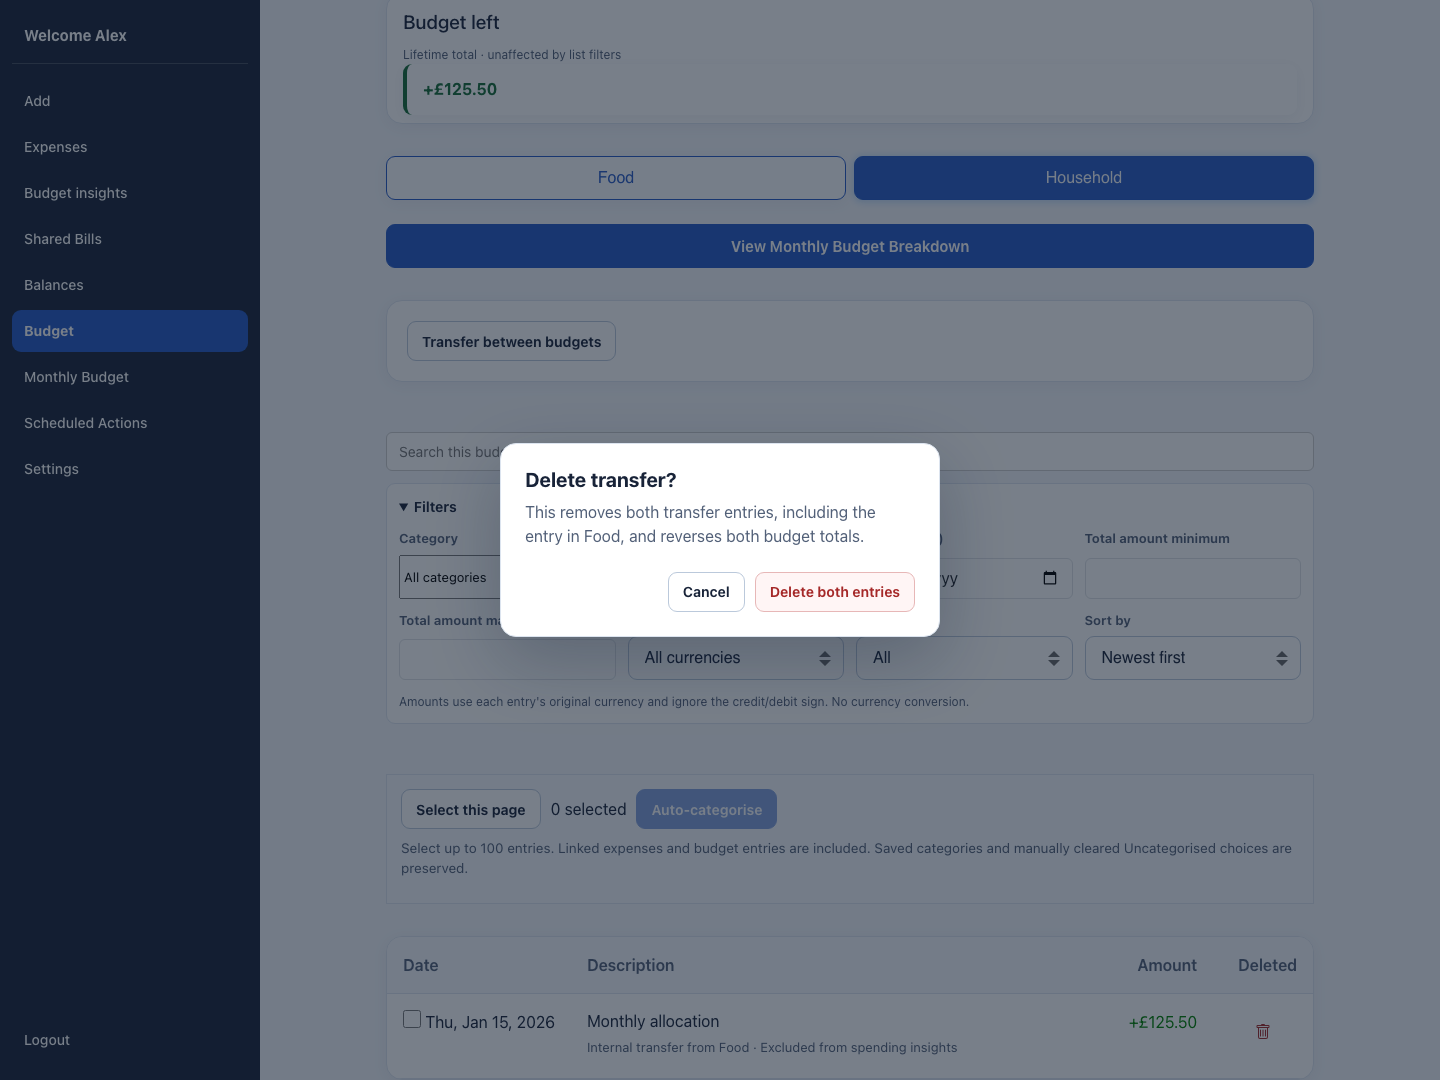
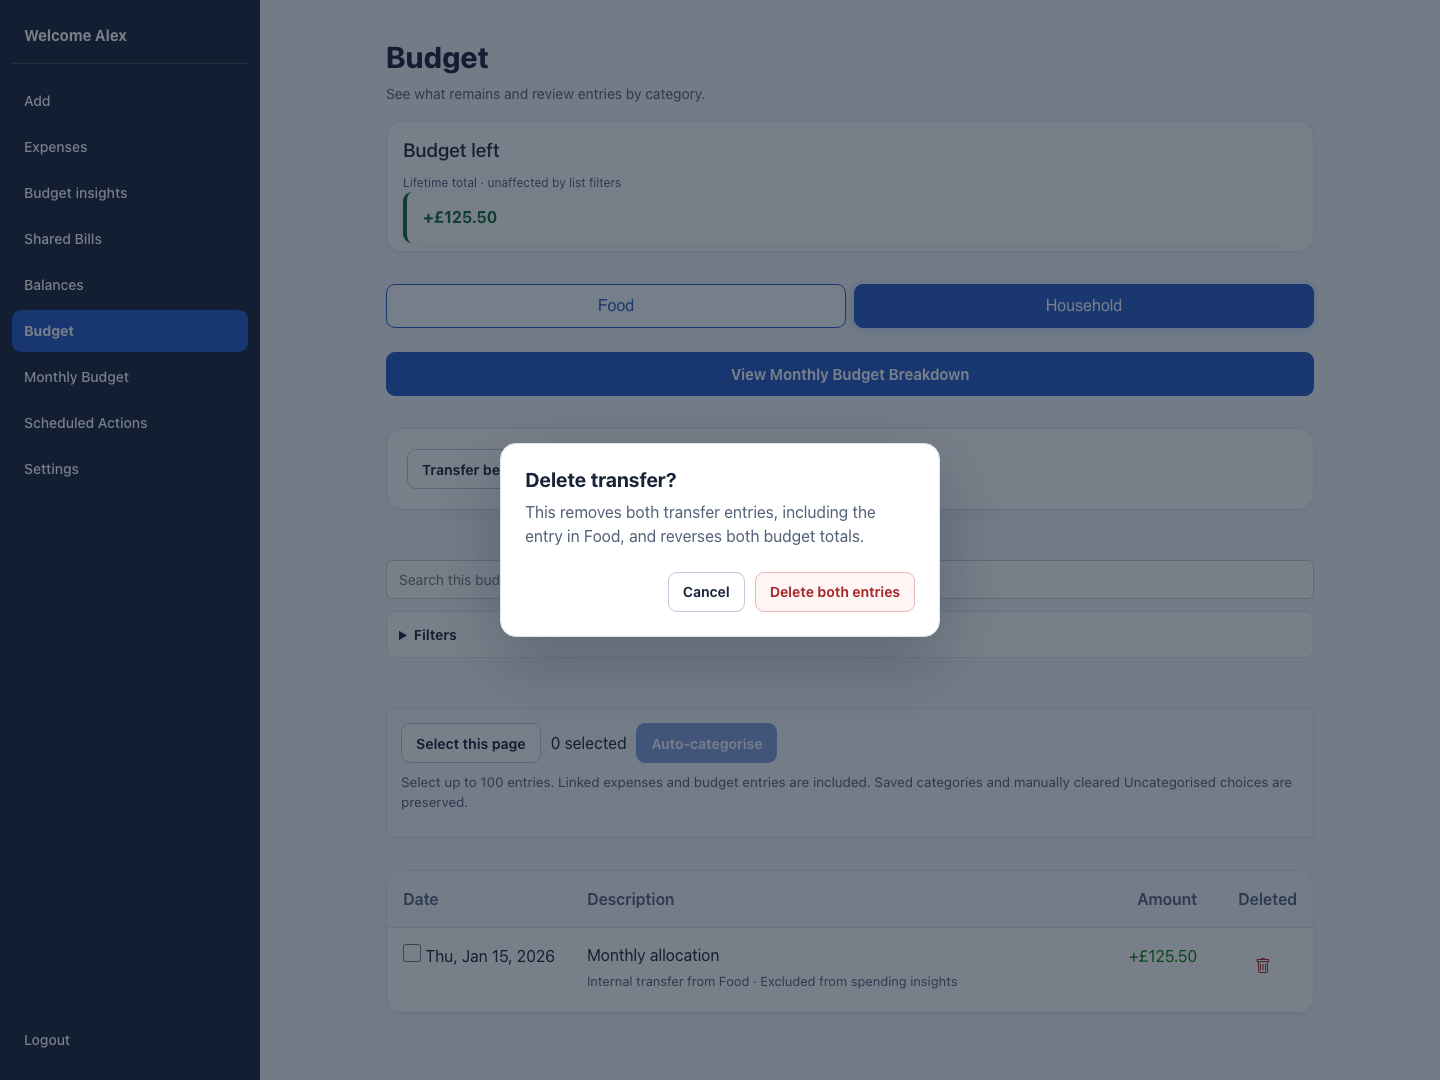
Start Budget filters and transfer controls collapsed

diff --git a/src/components/FinanceListFilters/FinanceListFilters.test.tsx b/src/components/FinanceListFilters/FinanceListFilters.test.tsx
@@ -1,0 +1,76 @@
+import { fireEvent, render, screen } from "@testing-library/react";
+import { FinanceListFilters } from "./index";
+import type { useFinanceListFilters } from "@/hooks/useFinanceListFilters";
+jest.mock("@/hooks/useCategories", () => ({
+	useCategories: () => ({ data: { enabled: false } }),
+}));
+const state = {
+	filters: {},
+	params: new URLSearchParams(),
+	activeCount: 0,
+	error: "",
+	update: jest.fn(),
+	clear: jest.fn(),
+} as unknown as ReturnType<typeof useFinanceListFilters>;
+for (const desktop of [true, false]) {
+	it(`starts Budget filters collapsed on ${desktop ? "desktop" : "mobile"} and supports toggling`, () => {
+		Object.defineProperty(window, "matchMedia", {
+			configurable: true,
+			value: jest.fn(() => ({ matches: desktop })),
+		});
+		render(
+			<FinanceListFilters state={state} currencies={["GBP"]} kind="budget" />,
+		);
+		expect(screen.getByLabelText("Date from (UTC)")).not.toBeVisible();
+		fireEvent.click(screen.getByText("Filters", { exact: true }));
+		expect(screen.getByLabelText("Date from (UTC)")).toBeVisible();
+		fireEvent.click(screen.getByText("Filters", { exact: true }));
+		expect(screen.getByLabelText("Date from (UTC)")).not.toBeVisible();
+	});
+}
+
+it("preserves Expenses desktop default", () => {
+	Object.defineProperty(window, "matchMedia", {
+		configurable: true,
+		value: jest.fn(() => ({ matches: true })),
+	});
+	render(
+		<FinanceListFilters state={state} currencies={["GBP"]} kind="expenses" />,
+	);
+	expect(screen.getByLabelText("Date from (UTC)")).toBeVisible();
+});
+
+it("preserves Expenses mobile default", () => {
+	Object.defineProperty(window, "matchMedia", {
+		configurable: true,
+		value: jest.fn(() => ({ matches: false })),
+	});
+	render(
+		<FinanceListFilters state={state} currencies={["GBP"]} kind="expenses" />,
+	);
+	expect(screen.getByLabelText("Date from (UTC)")).not.toBeVisible();
+});
+
+it("keeps active URL filters applied and counted while Budget controls are collapsed", () => {
+	const update = jest.fn();
+	const params = new URLSearchParams("currency=GBP&dateFrom=2026-01-01");
+	render(
+		<FinanceListFilters
+			state={{
+				...state,
+				params,
+				filters: { currency: "GBP", dateFrom: "2026-01-01" },
+				activeCount: 2,
+				update,
+			}}
+			currencies={["GBP"]}
+			kind="budget"
+		/>,
+	);
+	expect(screen.getByText("Filters · 2 active")).toBeVisible();
+	expect(screen.getByLabelText("Date from (UTC)")).not.toBeVisible();
+	fireEvent.click(screen.getByText("Filters · 2 active"));
+	expect(screen.getByLabelText("Date from (UTC)")).toHaveValue("2026-01-01");
+	expect(params.toString()).toBe("currency=GBP&dateFrom=2026-01-01");
+	expect(update).not.toHaveBeenCalled();
+});

diff --git a/src/e2e/budget-transfers.spec.ts b/src/e2e/budget-transfers.spec.ts
@@ -125,6 +125,29 @@ test("create, review counterpart and delete a transfer pair", async ({
 		.getByTestId("budget-selection-group")
 		.getByText("Food", { exact: true })
 		.click();
+
+	const transferToggle = page.getByRole("button", {
+		name: "Transfer between budgets",
+		exact: true,
+	});
+	const filters = page.getByRole("region", { name: "Budget list filters" });
+	await expect(transferToggle).toHaveAttribute("aria-expanded", "false");
+	await expect(page.getByLabel("From budget")).toHaveCount(0);
+	await expect(filters.locator("details")).toHaveJSProperty("open", false);
+	await expect(filters.getByLabel("Date from (UTC)")).toBeHidden();
+	await page.screenshot({
+		path: path.join(dir, `${prefix}-collapsed-overview.png`),
+	});
+	await filters.locator("summary").focus();
+	await page.keyboard.press("Enter");
+	await expect(filters.getByLabel("Date from (UTC)")).toBeVisible();
+	await filters.locator("summary").click();
+	await expect(filters.getByLabel("Date from (UTC)")).toBeHidden();
+	await transferToggle.click();
+	await expect(transferToggle).toHaveAttribute("aria-expanded", "true");
+	await page.getByLabel("From budget").waitFor();
+	await transferToggle.click();
+	await expect(transferToggle).toHaveAttribute("aria-expanded", "false");
 	await page
 		.getByRole("button", { name: "Transfer between budgets", exact: true })
 		.click();

diff --git a/src/pages/Budget/TransferForm.test.tsx b/src/pages/Budget/TransferForm.test.tsx
@@ -103,3 +103,18 @@ it("does not offer the source as destination and explains paired deletion", () =
 		screen.getByText(/Deleting either entry removes both sides/),
 	).toBeVisible();
 });
+
+it("starts transfer fields hidden and supports accessible open/close", () => {
+	mount();
+	const toggle = screen.getByRole("button", {
+		name: "Transfer between budgets",
+	});
+	expect(toggle).toHaveAttribute("aria-expanded", "false");
+	expect(screen.queryByLabelText("From budget")).not.toBeInTheDocument();
+	fireEvent.click(toggle);
+	expect(toggle).toHaveAttribute("aria-expanded", "true");
+	expect(screen.getByLabelText("From budget")).toBeVisible();
+	fireEvent.click(toggle);
+	expect(toggle).toHaveAttribute("aria-expanded", "false");
+	expect(screen.queryByLabelText("From budget")).not.toBeInTheDocument();
+});

diff --git a/src/components/FinanceListFilters/index.tsx b/src/components/FinanceListFilters/index.tsx
@@ -14,7 +14,7 @@ type Props = {
 export function FinanceListFilters({ state, currencies, kind }: Props) {
 	const categories=useCategories();
 	const [expanded, setExpanded] = useState(
-		() => window.matchMedia("(min-width: 761px)").matches,
+		() => kind !== "budget" && window.matchMedia("(min-width: 761px)").matches,
 	);
 	const [clearVersion, setClearVersion] = useState(0);
 	const clear = () => {

diff --git a/docs/budget-transfers.md b/docs/budget-transfers.md
@@ -1,5 +1,7 @@
 # Transfer between budgets
 
+Budget **Filters** and **Transfer between budgets** both start collapsed on desktop and mobile. Open either control when needed; expansion is not persisted and does not depend on screen size. Active URL filters remain applied and their count stays visible in the collapsed Filters summary. Expenses keeps its existing responsive filter default.
+
 Open **Budget → Transfer between budgets**, choose different source and destination household budgets, then enter an amount, currency, UTC date and optional note. At least two active budgets are needed. A transfer records one debit in the source and one equal credit in the destination, with both budget totals updated atomically. Existing negative balances are allowed; this feature does not enforce available funds.
 
 Amounts must be finite, positive, at most 1,000,000,000 and represent whole minor units (at most two decimal places). Both entries use the same supported currency; no conversion occurs. Dates must be valid UTC dates today or earlier, stored at `00:00:00` in the existing SQLite UTC timestamp format. Future transfers are not scheduled. Notes are limited to 200 characters. The form locks while saving and after success; **Record another transfer** starts a new intent.
@@ -67,3 +69,5 @@ yarn playwright test --config playwright.bulk-categories.config.ts budget-transf
 Synthetic desktop/mobile screenshots are embedded in the PR and personally reviewed: [desktop form](previews/budget-transfers/desktop-form.png), [desktop entry](previews/budget-transfers/desktop-entries.png), [desktop paired deletion](previews/budget-transfers/desktop-delete.png), [mobile form](previews/budget-transfers/mobile-form.png), [mobile entry](previews/budget-transfers/mobile-entries.png), [mobile destination credit](previews/budget-transfers/mobile-destination.png), [mobile paired deletion](previews/budget-transfers/mobile-delete.png).
 
 Final local evidence: the full Worker suite passed **419 tests, 8 skipped** before the final compatibility/monthly regressions; the final focused transfer/Budget/Insights run passed **64 tests** including all 13 transfer cases. Full frontend: **79 passed, 2 existing skipped**. Both lint/type gates, production build, actual-migrations cost fixture and both desktop/mobile browser cases passed. The mobile form capture uses a taller viewport at the same 390px width to show the entire form; interactive mobile checks use 390×844.
+
+Budget defaults follow-up: **8 focused UI tests** passed, along with frontend lint/types, production build and both desktop/mobile browser flows. Browser coverage asserts both sections initially collapsed, keyboard expansion/collapse of Filters, transfer toggle state, and the complete transfer create/delete flow. Reviewed collapsed overview captures: [desktop](previews/budget-transfers/desktop-collapsed-overview.png), [mobile](previews/budget-transfers/mobile-collapsed-overview.png).
